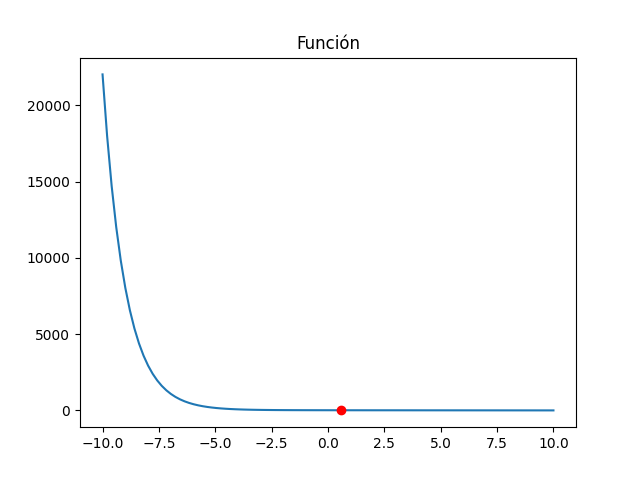
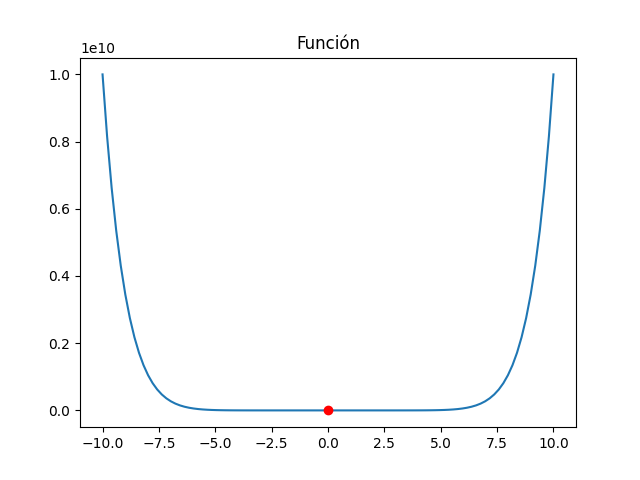
arreglo de bugs

diff --git a/nolineal.py b/nolineal.py
@@ -25,7 +25,6 @@ def graficar_funcion(pol, xr):
 
 
 def biseccion(a, b, tol, pol):
-    iter = [1]  # Lista para guardar los iteraciones
     cota_inf = [a] # Lista para guardar la cota inferior
     cota_sup = [b] # Lista para guardar la cota superior
     x = [] # Lista para guardar los valores de x
@@ -33,10 +32,10 @@ def biseccion(a, b, tol, pol):
     err = [] # Lista para guardar los errores en %
 
     x.append(round(a, tol+1))
+    print(type(a))
     fx.append(f(a, pol))
-    x.append(round(b, tol+1))
-    fx.append(f(b, pol))
-    e = abs((b - a) / 2)
+
+    e = 1
     err.append(round(e*100, 4))
 
     #if f(a, pol) * f(b, pol) > 0 and iter[0] == 1:
@@ -45,8 +44,9 @@ def biseccion(a, b, tol, pol):
     #else: 
     while e > 10**(-1*tol):
         c = (a + b) / 2
+        e = abs((b - a) / 2)
         x.append(round(c, tol+1))
-        fx.append(f(c, pol))
+        fx.append(round(f(c, pol),tol+1))
         if f(a, pol) * f(c, pol) < 0:
             b = c
         else:
@@ -54,14 +54,13 @@ def biseccion(a, b, tol, pol):
 
         cota_sup.append(round(b, tol+1))
         cota_inf.append(round(a, tol+1))
-        e = abs((b - a) / 2)
+        
         err.append(round(e*100, 4))
-        iter.append(iter[-1] + 1)
-    return iter, cota_inf, cota_sup, x, fx, err
+    return cota_inf, cota_sup, x, fx, err
 
 # metodo de la falsa posicion
 def falsa_posicion(a, b, tol, pol):
-    iter = [1]  # Lista para guardar los iteraciones
+    
     cota_inf = [a] # Lista para guardar la cota inferior
     cota_sup = [b] # Lista para guardar la cota superior
     x = [] # Lista para guardar los valores de x
@@ -70,8 +69,7 @@ def falsa_posicion(a, b, tol, pol):
 
     x.append(round(a, tol+1))
     fx.append(f(a, pol))
-    x.append(round(b, tol+1))
-    fx.append(f(b, pol))
+
     e = abs((b - a) / 2)
     err.append(round(e*100, 4))
 
@@ -92,8 +90,8 @@ def falsa_posicion(a, b, tol, pol):
         cota_inf.append(round(a, tol+1))
         e = abs((b - a) / 2)
         err.append(round(e*100, 4))
-        iter.append(iter[-1] + 1)
-    return iter, cota_inf, cota_sup, x, fx, err
+        
+    return cota_inf, cota_sup, x, fx, err
 
 
 
@@ -105,7 +103,6 @@ def g(x, pol):
 
 # Metodo del punto fijo
 def punto_fijo(x0, tol, pol):
-    iter = [1]  # Lista para guardar los iteraciones
     x = [] # Lista para guardar los valores de x
     gx = [] # Lista para guardar los valores de g(x)
     fx = [] # Lista para guardar los valores de f(x)
@@ -140,7 +137,7 @@ def d(n, pol):
     
 
 def newton_raphson(x0, tol, pol):
-    iter = [0]  # Lista para guardar los iteraciones
+    
     x = [] # Lista para guardar los valores de x
     fx = [] # Lista para guardar los valores de f(x)
     dx = [] # Lista para guardar los valores de f'(x)
@@ -160,16 +157,15 @@ def newton_raphson(x0, tol, pol):
         fx.append(round(f(x0, pol), tol+1))
         dx.append(round(d(x0, pol), tol+1))
         err.append(round(e, tol+1))
-        iter.append(iter[-1] + 1)
+    
 
-    return iter, x, fx, dx, err
+    return x, fx, dx, err
 
 
 
 
 # Metodo de la secante
 def secante(x0, x1, tol, pol):
-    iter = [1]  # Lista para guardar los iteraciones
     x = [] # Lista para guardar los valores de x
     fx = [] # Lista para guardar los valores de f(x)
     err = [] # Lista para guardar los errores en %
@@ -187,17 +183,16 @@ def secante(x0, x1, tol, pol):
         x.append(round(x0, tol+1))
         fx.append(round(f(x0, pol), tol+1))
         err.append(round(e*100, tol+1))
-        iter.append(iter[-1] + 1)
-    return iter, x, fx, err
+    return x, fx, err
 
 
-funcion = '(1/np.exp(x))-x'
-#bis = biseccion(0, 1.4, 0.001, funcion)
-#print(bis[3][-1])
-#graficar_funcion(funcion, bis[3][-1])
-#for b in bis:
-#    print(b)
-#    print("\n")
+funcion = 'x**10-1'
+bis = biseccion(0.1, 1.4, 3, funcion)
+print(bis[3][-1])
+graficar_funcion(funcion, bis[3][-1])
+for b in bis:
+    print((b))
+    print("\n")
 
 #fp = falsa_posicion(0, 1.4, 3, funcion)
 #print(fp[3][-1])
@@ -220,12 +215,12 @@ funcion = '(1/np.exp(x))-x'
 #    print(n)
 #    print("\n")
 
-sec = secante(0, 1.4, 4, funcion)
-print(sec[1][-1])
-graficar_funcion(funcion, sec[1][-1])
-for s in sec:
-    print(s)
-    print("\n")
+#sec = secante(0, 1.4, 4, funcion)
+#print(sec[1][-1])
+#graficar_funcion(funcion, sec[1][-1])
+#for s in sec:
+#    print(s)
+#    print("\n")
 
 
 

diff --git a/ecuaciones_algebraicas.py b/ecuaciones_algebraicas.py
@@ -1,0 +1,29 @@
+import numpy as np
+
+# METODO DE ELIMINACION DE GAUSS
+
+#Eliminacion hacia adelante
+def eliminacion_adelante(A,B):
+    a = np.copy(A)
+    b = np.copy(B)
+    m, n = a.shape
+    for k in range(0,m-1):
+        print(f'f{k+1}-f{k}')
+        for i in range(1+k,m):
+            factor = a[i,k]/a[k,k]
+            print(f'{a[i,k]}/{a[k,k]}')
+
+            for j in range(0,n):
+                a[i,j] = a[i,j] - factor*a[k,j]
+                print(a)
+            b[i,0] = b[i,0] - factor*b[k,0]
+    return a,b
+
+A = np.array([[3,-0.1,-0.2],[0.1,7,-0.3],[0.3,-0.2,10]])
+B = np.array([7.85,-19.3,71.4]).reshape((3,1))
+
+print(A)
+print(B)
+
+eliminacion_adelante(A,B)
+
